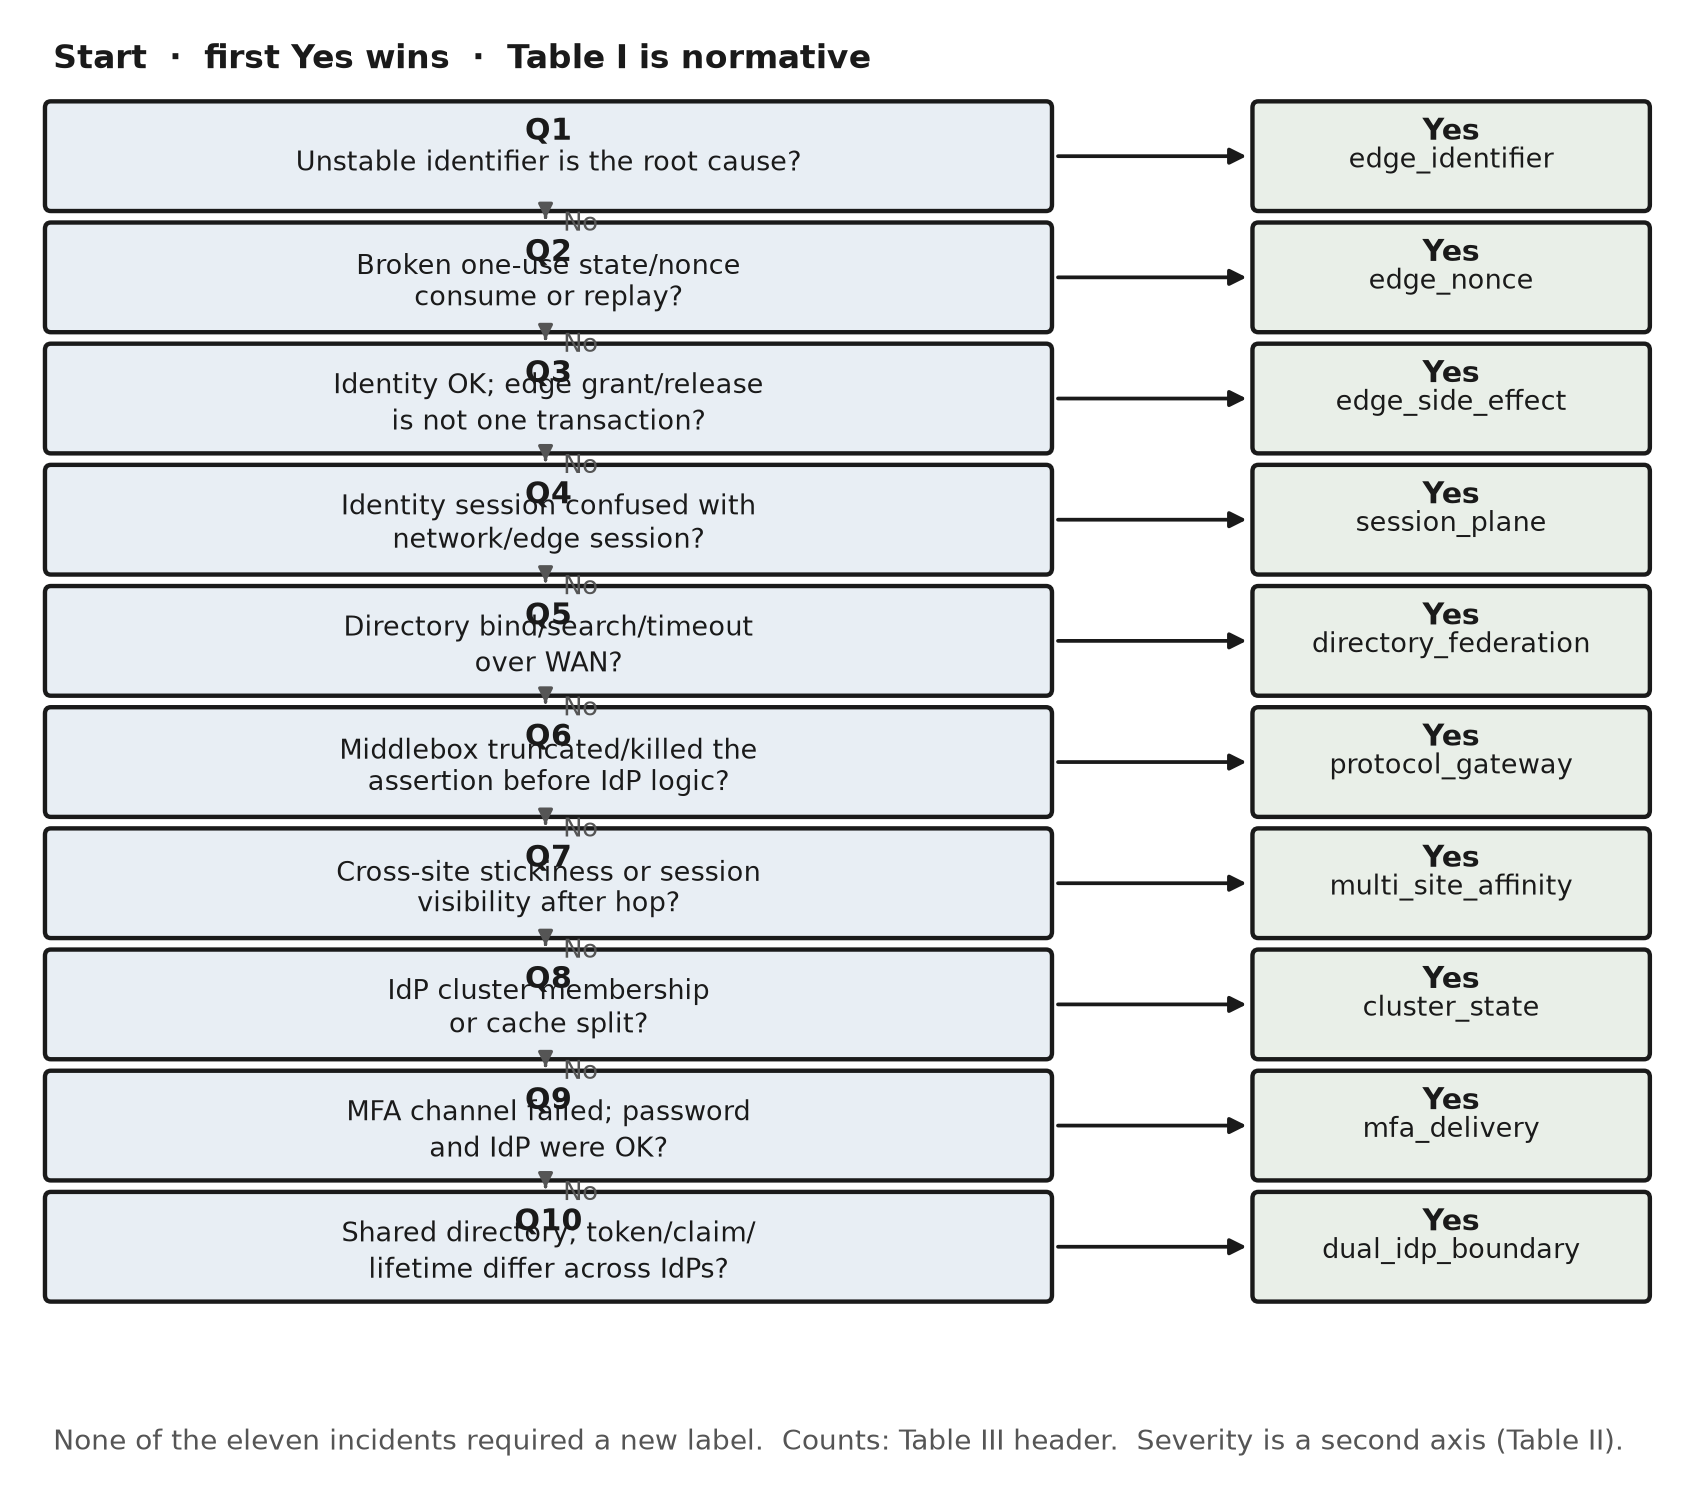
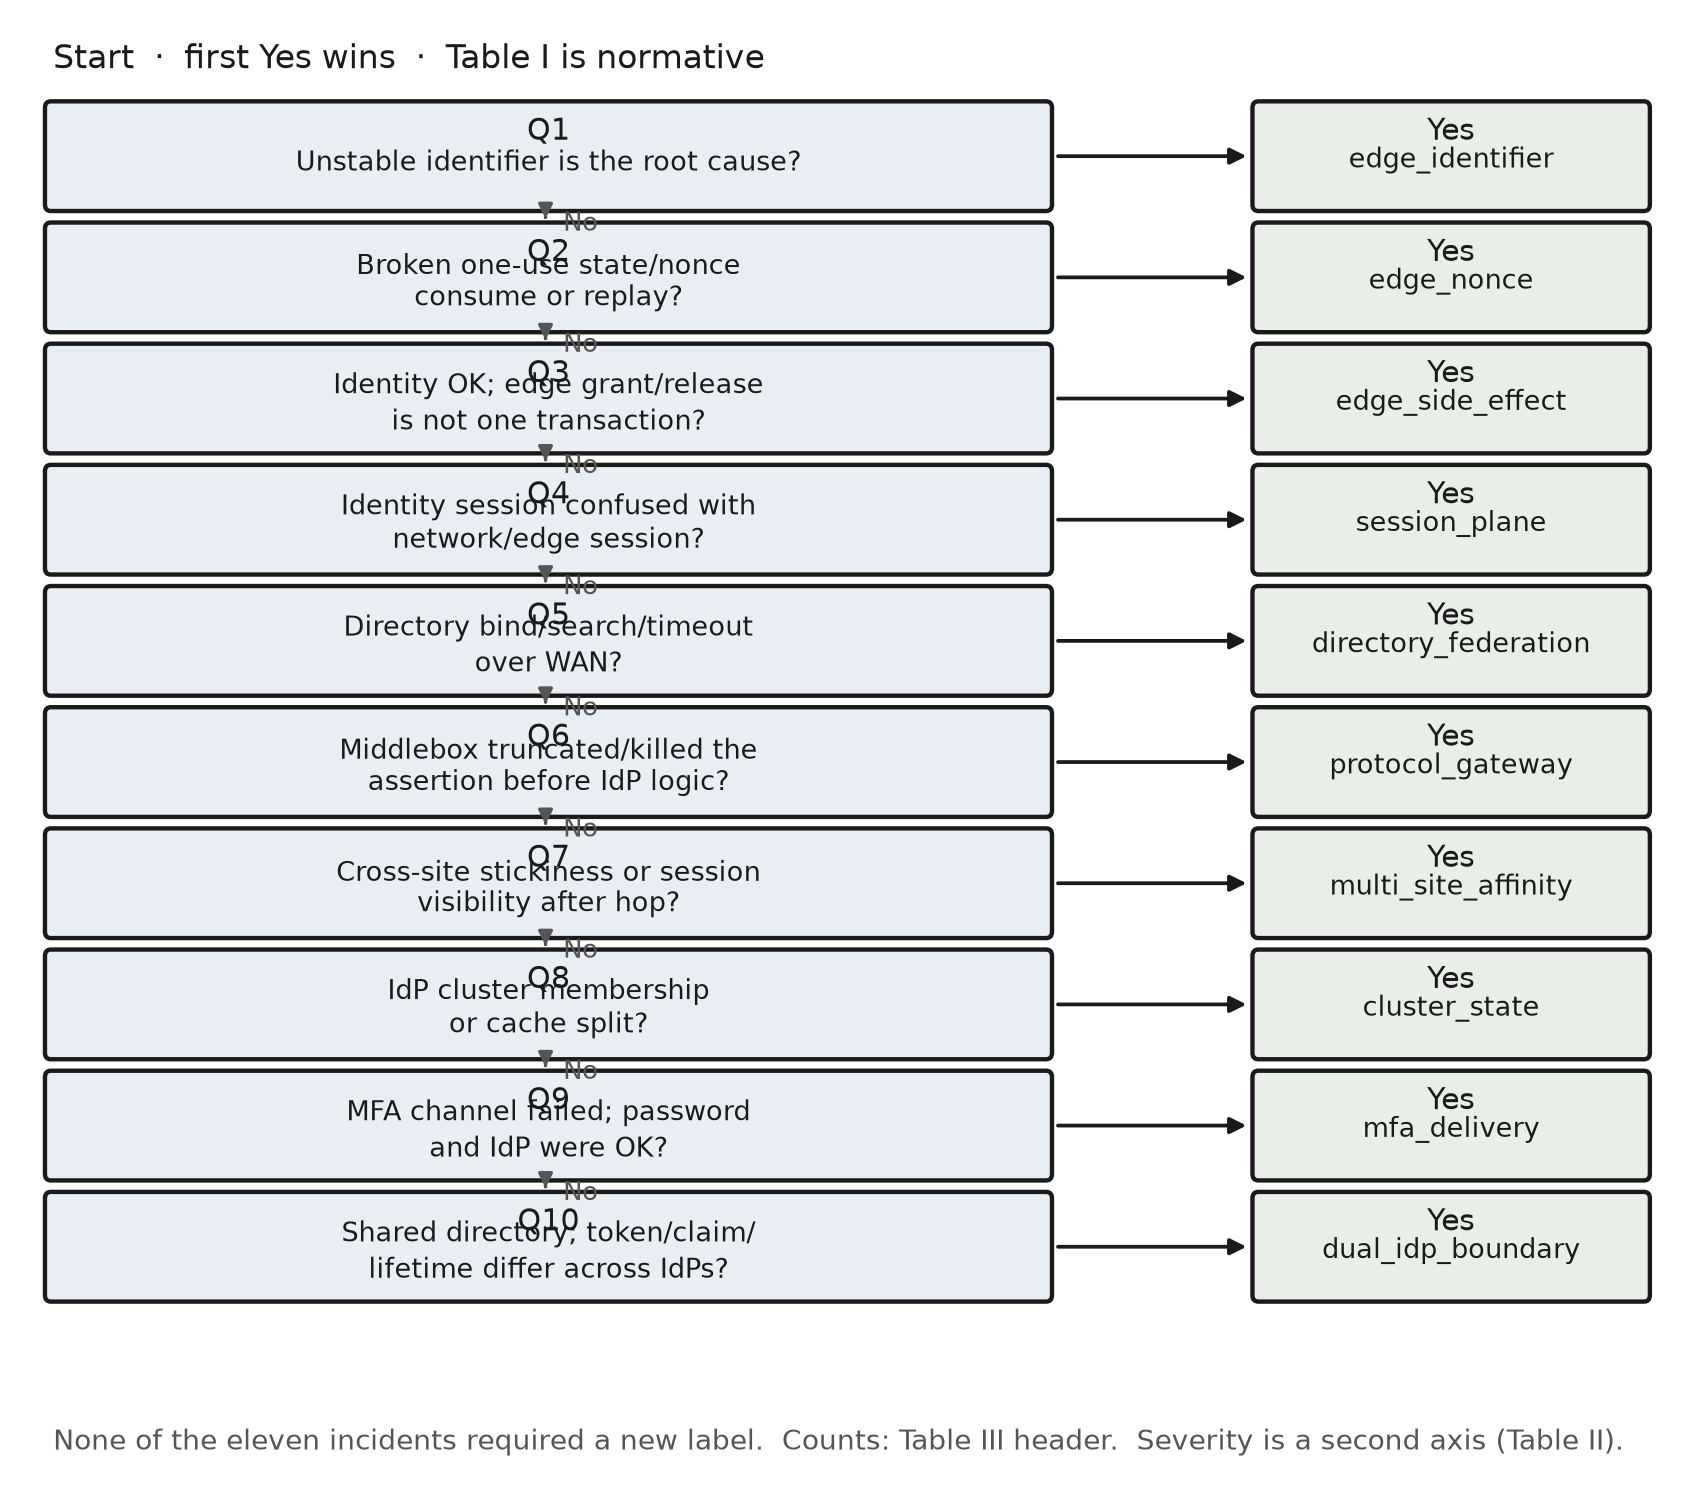
Release v1.0.10: concept DOI in CITATION.cff; figure typography pass.

diff --git a/docs/TAGS.md b/docs/TAGS.md
@@ -4,10 +4,11 @@ Cite a tag, never floating `main`.
 
 | Tag | Role |
 | --- | --- |
-| `v1.0.9.1` | **IEEE Access / Zenodo cite pin.** `CITATION.cff` version DOI wired (`10.5281/zenodo.22214839`) |
-| `v1.0.9` | Manuscript title + SCOPE wording; DOI procedure in TAGS.md |
-| `v1.0.8` | Superseded — Fig. 3 `fig3-callback-consume.png`; version DOI on tag lagged until post-release commit |
-| `v1.0.7` | Superseded — manuscript-aligned Table III / checklist / anonymization pass; `nonce_*` → `callback_*` in harness |
+| `v1.0.10` | **CITATION.cff policy fix.** `url:` and `identifiers` use concept DOI only (`10.5281/zenodo.21950901`). Version DOI belongs in the manuscript, not in the artifact metadata. |
+| `v1.0.9` | **IEEE Access / Zenodo cite pin** for manuscript Availability and ref [28]. Version DOI `10.5281/zenodo.22214839`. Tag snapshot's `CITATION.cff` still carried v1.0.8 DOI — superseded by v1.0.10 policy. |
+| `v1.0.9.1` | Superseded post-tag DOI wire attempt; do not cite this tag in the paper. |
+| `v1.0.8` | Superseded — Fig. 3 `fig3-callback-consume.png` |
+| `v1.0.7` | Superseded — manuscript-aligned Table III / checklist / anonymization pass |
 | `v1.0.0` – `v1.0.5` | Superseded — packaging and metadata iterations |
 | `v0.1.6` | Superseded — explicit F3/F5 harness schedules + threat model |
 | `v0.1.5` | Superseded — `edge_nonce` → `edge_callback_consume` rename (data layer only) |
@@ -17,8 +18,7 @@ Cite a tag, never floating `main`.
 
 1. Cut tag `vX.Y.Z` and publish a **GitHub Release** (Zenodo archives on releases, not on tags).
 2. Wait for Zenodo to mint the **version DOI** for that release.
-3. Commit the version DOI into `CITATION.cff` (`url:` and `identifiers` "This version") on `main`.
-4. Copy the same version DOI into the manuscript Data and Code Availability statement and ref [28].
-5. Confirm the Zenodo record's version label matches the tag before citing it.
-6. If the DOI commit must ship after the tag, cut a **patch tag** (e.g. `v1.0.9.1`) so the archived release ZIP includes the wired DOI.
-7. Never edit a tagged release in place. Cut a new patch tag instead.
+3. **Manuscript only:** wire the version DOI and tag into Data and Code Availability and ref [28]. Confirm in a browser that the Zenodo record's version label matches the tag before submitting.
+4. **`CITATION.cff`:** keep `url:` and `identifiers` on the **concept DOI** (`10.5281/zenodo.21950901`) only. Do **not** put the version DOI in the artifact — it cannot be correct inside the first tagged snapshot.
+5. Bump `version:` and `date-released:` in `CITATION.cff` when cutting a new tag; no post-tag DOI commit is required.
+6. Never edit a tagged release in place. Cut a new patch tag instead.

diff --git a/CHANGELOG.md b/CHANGELOG.md
@@ -1,5 +1,12 @@
 # Changelog
 
+## 1.0.10 — 2026-08-31
+
+Stop version-DOI lag in `CITATION.cff`. No code or case-data changes.
+
+- **CITATION.cff.** `url:` and `identifiers` now use concept DOI only (`10.5281/zenodo.21950901`). Version DOI for a release belongs in the manuscript Availability / ref [28], not inside the archived artifact metadata.
+- **Release procedure.** `docs/TAGS.md` rewritten to match (no post-tag DOI commit into `CITATION.cff`).
+
 ## 1.0.9.1 — 2026-08-31
 
 Wire Zenodo v1.0.9 version DOI into `CITATION.cff` (`10.5281/zenodo.22214839`). No code or case-data changes.
